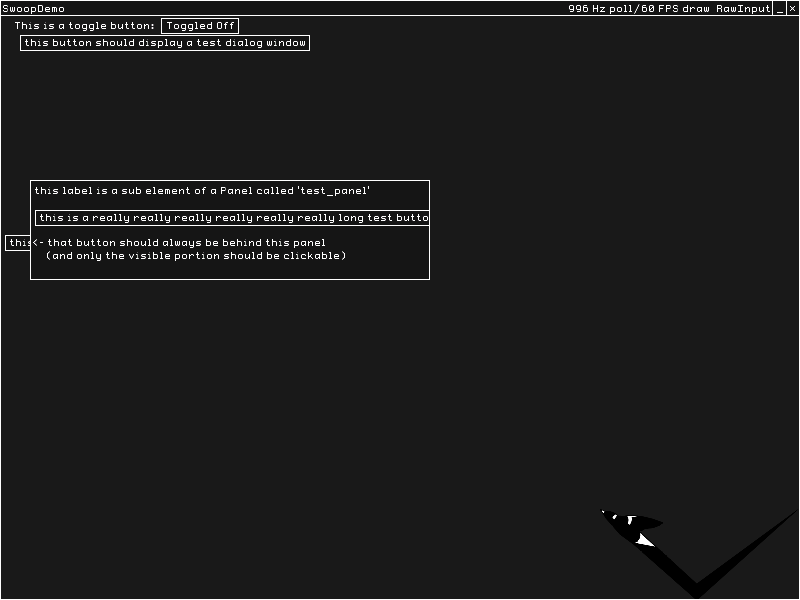
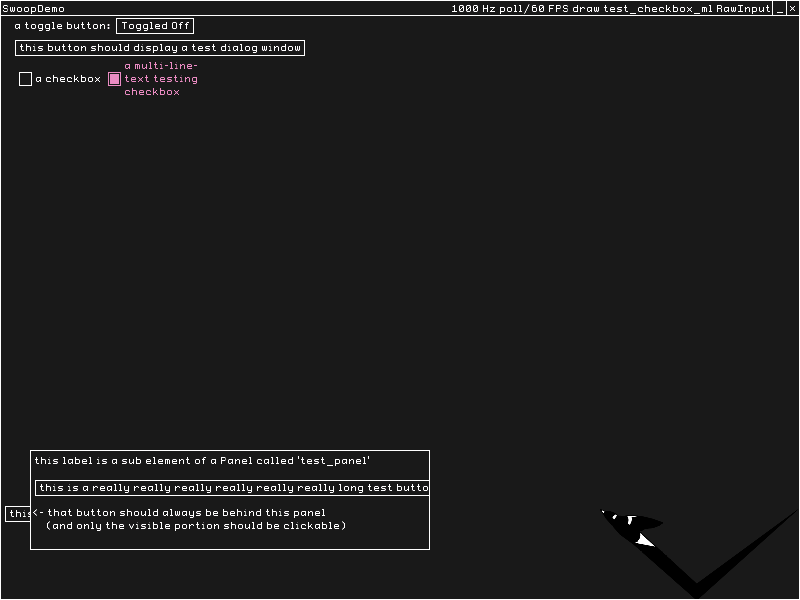
add checkbox element

diff --git a/Swoop/UIElements/Checkbox.cs b/Swoop/UIElements/Checkbox.cs
@@ -1,0 +1,83 @@
+using System;
+using System.Collections.Generic;
+using System.Linq;
+using System.Runtime.CompilerServices;
+using System.Text;
+using System.Threading.Tasks;
+using Microsoft.Xna.Framework;
+using MGRawInputLib;
+
+namespace SwoopLib.UIElements {
+    public class Checkbox : UIElement {
+        string _text;
+        public string text { get { return _text; } set { _text = value; update_size(); } }
+
+        Vector2 checkbox_size = Vector2.One * 12f;
+        Vector2 text_size = Vector2.Zero;
+        
+        const int margin = 4;
+
+        public bool Checked { get; set; } = false;
+        bool text_taller_than_box = false;
+
+        public Action<Checkbox, bool> checked_changed;
+
+        void update_size() {
+            text_size = Drawing.measure_string_profont(text);
+
+            if (text_size.Y > checkbox_size.Y) {
+                text_taller_than_box = true;
+                size = text_size + (Vector2.UnitX * (checkbox_size.X + margin));
+            } else {
+                text_taller_than_box = false;
+                size = checkbox_size + (Vector2.UnitX * (text_size.X + margin));
+            }
+        }
+
+        public Checkbox(string name, string text, Vector2 position) : base(name, position, Vector2.Zero) {
+            this.text = text;
+        }
+
+        internal override void added() { }
+
+        internal override void update() {
+            bool interacted = false;
+
+            if (!clicking && was_clicking && mouse_over) interacted = true;
+            if (is_focused && Swoop.input_handler.just_pressed(Microsoft.Xna.Framework.Input.Keys.Enter))
+                interacted = true;
+
+            if (interacted) {
+                Checked = !Checked;
+                update_size();
+                if (checked_changed != null) checked_changed(this, Checked);
+            }
+        }
+
+        internal override void draw() {
+            Vector2 mid_left = position + (size.Y_only() * 0.5f) ;
+            Drawing.fill_rect_outline(
+                mid_left - (checkbox_size.Y_only() * 0.5f), mid_left - (checkbox_size.Y_only() * 0.5f) + checkbox_size, 
+                Swoop.UIBackgroundColor, Swoop.get_color(this), 1f);
+
+            if (mouse_over) {
+                Drawing.rect(
+                    mid_left - (checkbox_size.Y_only() * 0.5f) + Vector2.One, 
+                    mid_left - (checkbox_size.Y_only() * 0.5f) + checkbox_size - Vector2.One,
+                    Swoop.get_color(this), 1f);
+            }
+
+            if (Checked) {
+                Drawing.fill_rect(
+                    mid_left - (checkbox_size.Y_only() * 0.5f) + Vector2.One,
+                    mid_left - (checkbox_size.Y_only() * 0.5f) + checkbox_size - (Vector2.One * 2),
+                    Swoop.get_color(this));                    
+            }
+
+            Drawing.text(_text, mid_left + checkbox_size.X_only() + (Vector2.UnitX * margin) - (text_size.Y_only() * 0.5f), Swoop.get_color(this));
+        }
+
+        internal override void draw_rt() {}
+
+    }
+}

diff --git a/SwoopDemo/SwoopGame.cs b/SwoopDemo/SwoopGame.cs
@@ -111,23 +111,29 @@ namespace SwoopDemo {
             UI.elements["title_bar"].ignore_dialog = true;
 
 
-                
-            UI.add_element(new Button("test_button",
-                "this button should display a test dialog window",
-                (Vector2.One * 20) + (Vector2.UnitY * 15)));
 
-            UI.add_element(new Label("toggle_label", "This is a toggle button:", (Vector2.UnitY * 20) + (Vector2.UnitX * 15)));
+            UI.add_element(new Label("toggle_label", "a toggle button:", (Vector2.UnitY * 20) + (Vector2.UnitX * 15)));
 
-            UI.add_element(new ToggleButton("toggle_button", "Toggled On", "Toggled Off", (Vector2.UnitY * 26) + (Vector2.UnitX * 200)));
+            UI.add_element(new ToggleButton("toggle_button", "Toggled On", "Toggled Off", (Vector2.UnitY * 26) + (Vector2.UnitX * 155)));
             UI.elements["toggle_button"].anchor = UIElement.anchor_point.CENTER;
 
+
+            UI.add_element(new Button("test_button",
+                "this button should display a test dialog window",
+                (Vector2.UnitY * 40) + (Vector2.UnitX * 15)));
+
+            UI.add_element(new Checkbox("test_checkbox", "a checkbox",
+                (Vector2.One * 20) + (Vector2.UnitY * 53)));
+
+            UI.add_element(new Checkbox("test_checkbox_ml", "a multi-line-\ntext testing\ncheckbox",
+                (Vector2.One * 20) + (Vector2.UnitY * 40) + (Vector2.UnitX * 89)));
 
 
             UI.add_element(new Button("behind_button",
                 @"this button should be behind the test panel",
-                Vector2.One * 5 + (Vector2.UnitY * 230)));
+                (resolution.ToVector2().Y_only() - (Vector2.UnitY * 94)) + (Vector2.UnitX * 5)));
 
-            UI.add_element(new Panel("test_panel", Vector2.One * 30 + (Vector2.UnitY * 150), new Vector2(400, 100),
+            UI.add_element(new Panel("test_panel", (resolution.ToVector2().Y_only() - (Vector2.UnitY * 150)) + (Vector2.UnitX * 30), new Vector2(400, 100),
                 (Panel panel, UIElementManager sub_elements) => {
                     sub_elements.add_element(new Button("long_button",
                         "this is a really really really really really really long test button that should be far longer than the width of the panel",

diff --git a/Swoop/Drawing.cs b/Swoop/Drawing.cs
@@ -12,6 +12,13 @@ using Microsoft.Xna.Framework.Graphics;
 using static System.Formats.Asn1.AsnWriter;
 
 namespace SwoopLib {
+    static class Extensions {
+        public static Vector2 X_only(this Vector2 v) => new Vector2(v.X, 0);
+        public static Vector2 Y_only(this Vector2 v) => new Vector2(0, v.Y);
+        public static Point X_only(this Point p) => new Point(p.X, 0);
+        public static Point Y_only(this Point p) => new Point(0, p.Y);
+    }
+
     public static class Drawing {
         public static SpriteBatch sb;
 

diff --git a/Swoop/UIElement.cs b/Swoop/UIElement.cs
@@ -124,8 +124,8 @@ namespace SwoopLib {
             this.size = size;
         }
 
-        internal abstract void update();
         internal abstract void added();
+        internal abstract void update();
         internal abstract void draw();
         internal abstract void draw_rt();
 
